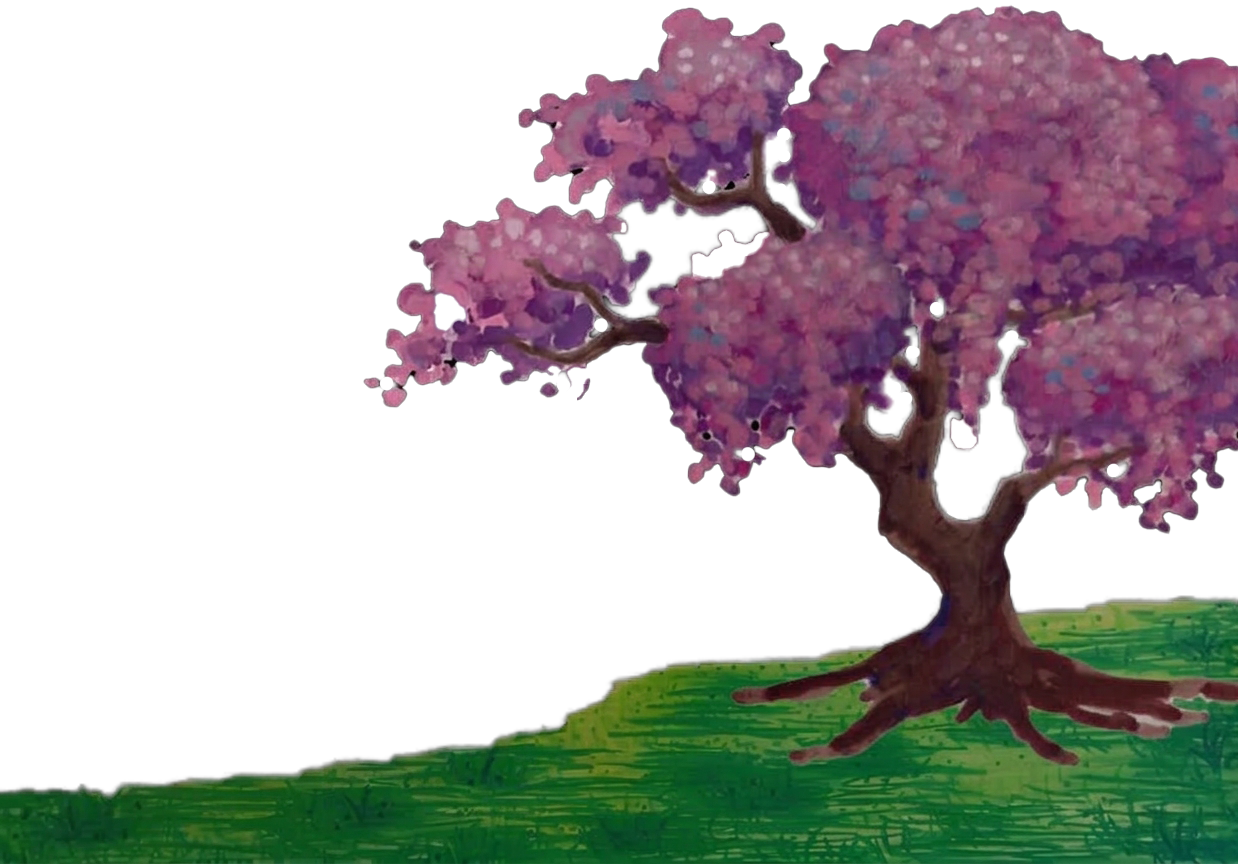
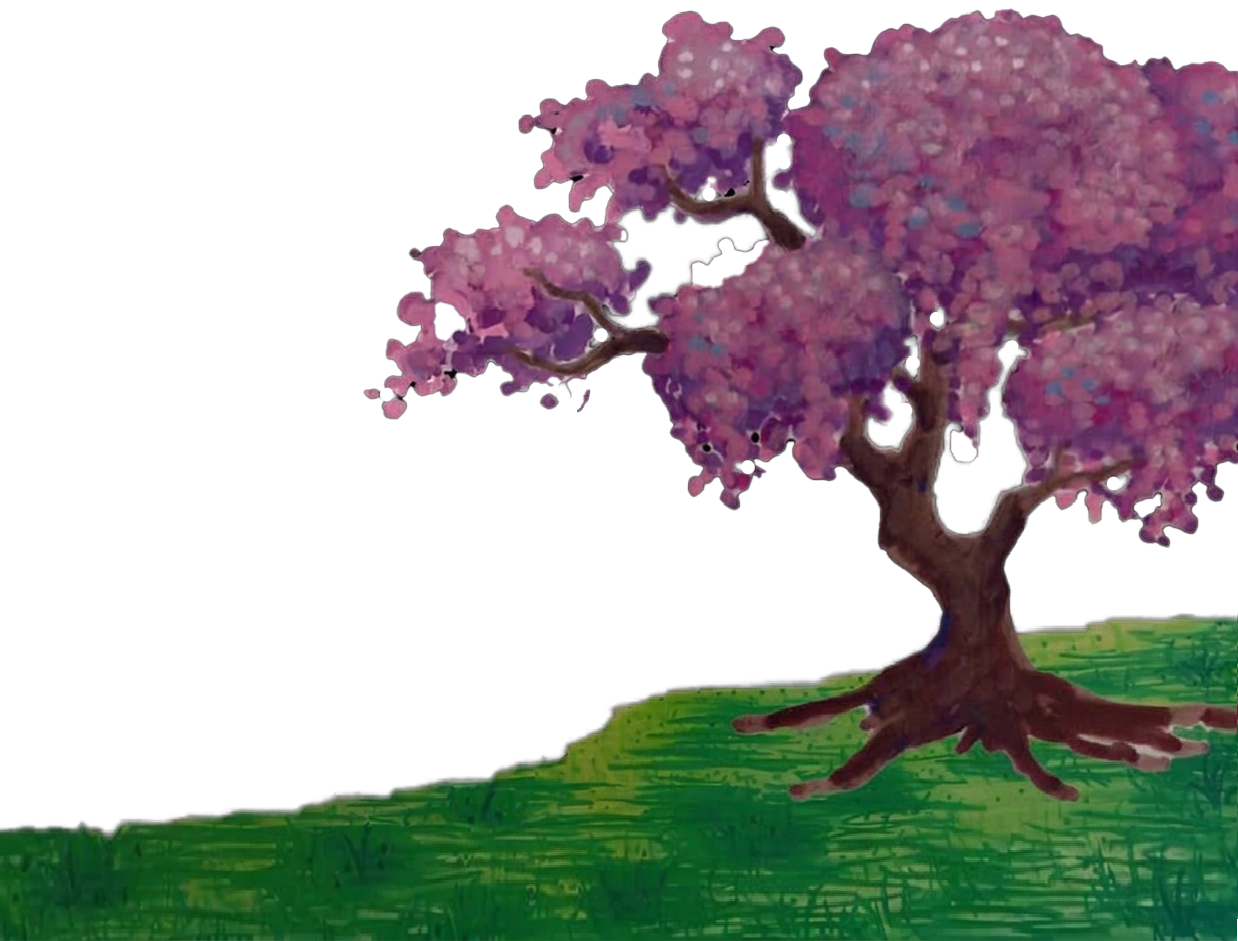
fix tree position

diff --git a/src/public/scripts/gsap_animations/gsap_script.js b/src/public/scripts/gsap_animations/gsap_script.js
@@ -98,7 +98,7 @@ gsap.to("#waterfall", {
 });
 
 gsap.to("#tree", {
-    y: -890,
+    y: -950,
     ease: "power1.out",
 
     scrollTrigger:{

diff --git a/src/public/css/gsap_background_style.css b/src/public/css/gsap_background_style.css
@@ -32,7 +32,7 @@
 }
 
 #tree{
-    top: 570px;
+    top: 600px;
 }
 
 #cloud1{
